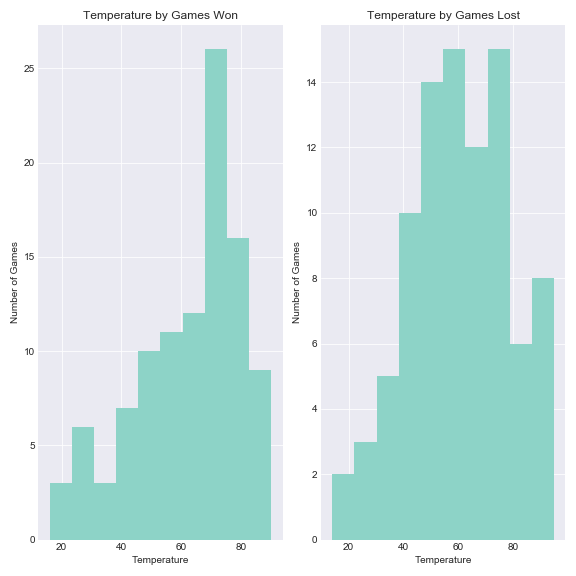
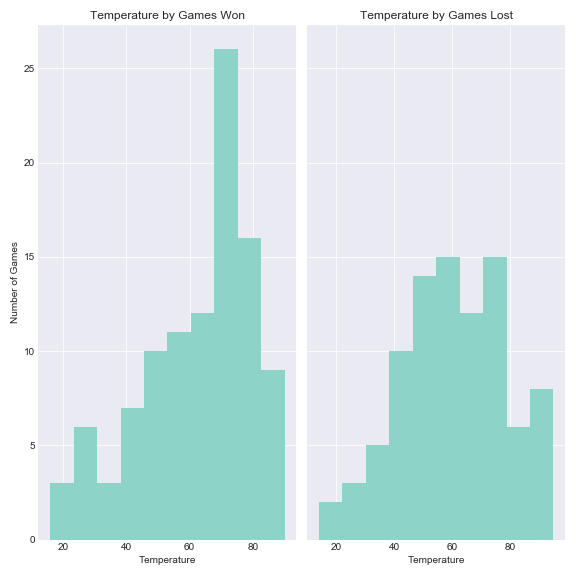
'new temp_win_loss'

diff --git a/create dataframe functions.py b/create dataframe functions.py
@@ -125,7 +125,7 @@ def hist_win_loss(df, filename):
     win = df[df['Win']==1]
     lost = df[df['Win']!=1]
     
-    fig, axs = plt.subplots(1,2, figsize = (8,8))
+    fig, axs = plt.subplots(1,2, sharey=True, figsize = (8,8))
 
     ax0 = axs[0]
     ax0.set_title('Temperature by Games Won')
@@ -136,7 +136,6 @@ def hist_win_loss(df, filename):
     ax1 = axs[1]
     ax1.set_title('Temperature by Games Lost')
     ax1.set_xlabel('Temperature')
-    ax1.set_ylabel('Number of Games')
     ax1.hist(lost['Weather_Temp'])
 
     plt.tight_layout()
@@ -159,23 +158,19 @@ def l_or_g(df, calculation):
         return df[df['Weather_Temp'] > temp_avg]
         
 
+#Create samples from dataframes to run stat test on
 less = l_or_g(game_win_df, 'less')
 sample_l = less.sample(n=50)
+
 greater = l_or_g(game_win_df, 'greater')
 sample_g = greater.sample(n=50)
 
 #%%
-
-
-#%%
-
-
-#%%
 from scipy import stats
+
 #Run two tailed T-test on two independent samples. 
 # Null hypothesis is that the sample means are identical. 
-
-stat, pval = stats.ttest_ind(sample_l['Win'], sample_g['Win'])
+stat, pval = stats.ttest_ind(sample_l['Win'], sample_g['Win'], equal_var=False)
 print('The statistic value is {} and the pvalue is {}'.format(round(stat, 3), round(pval, 3)))
 
 
